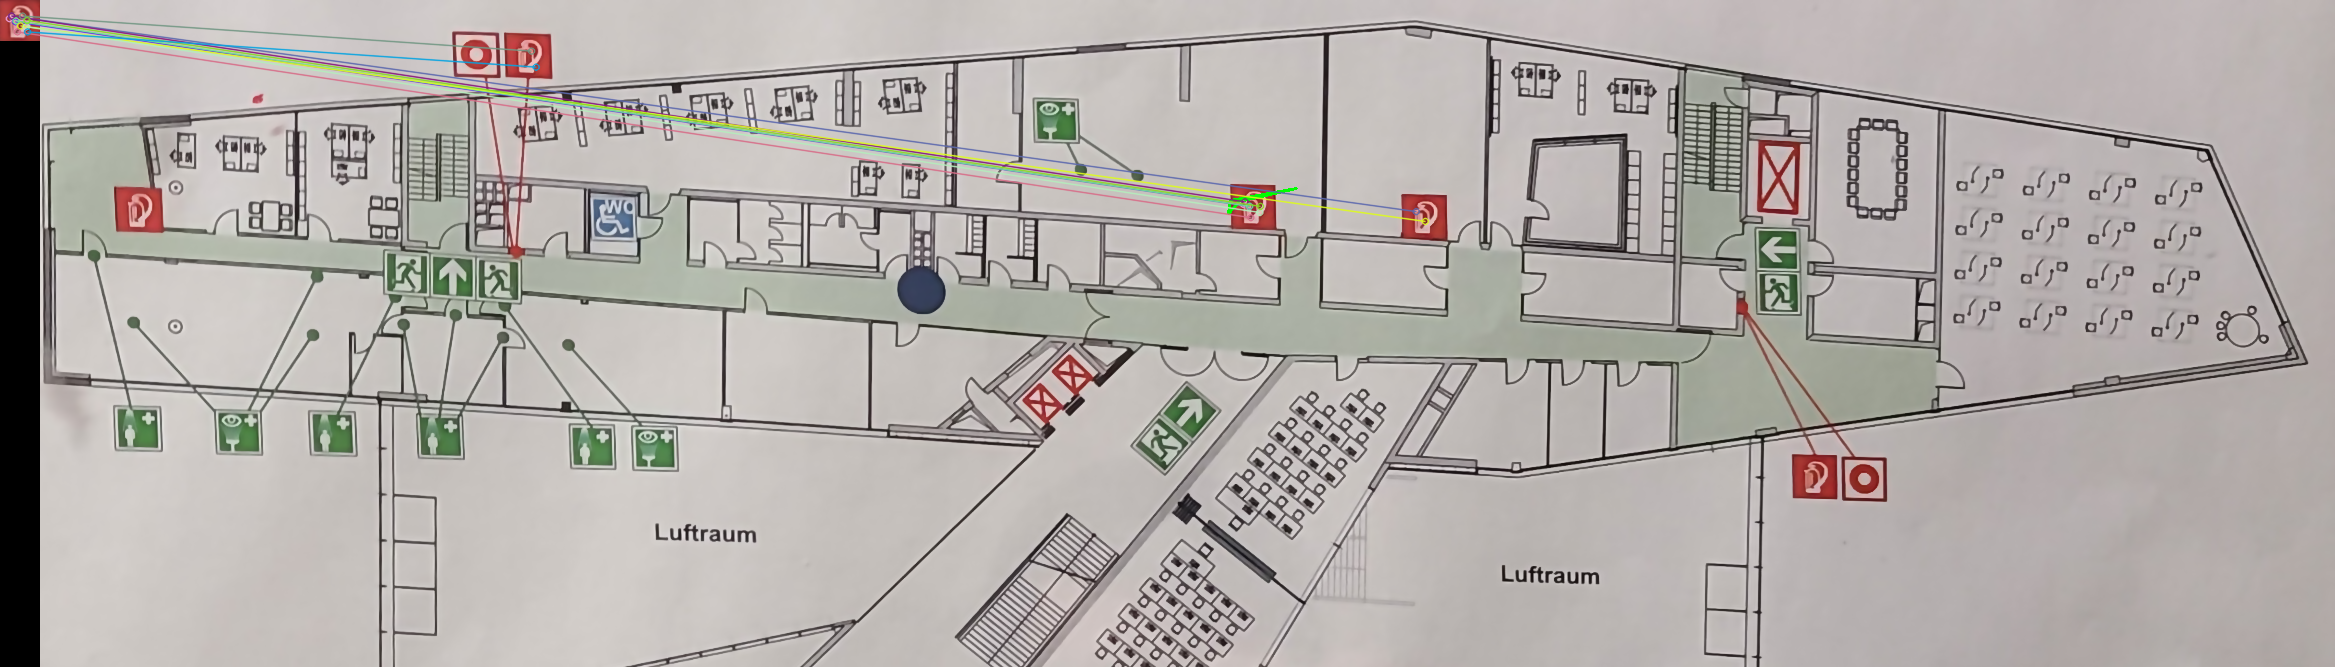
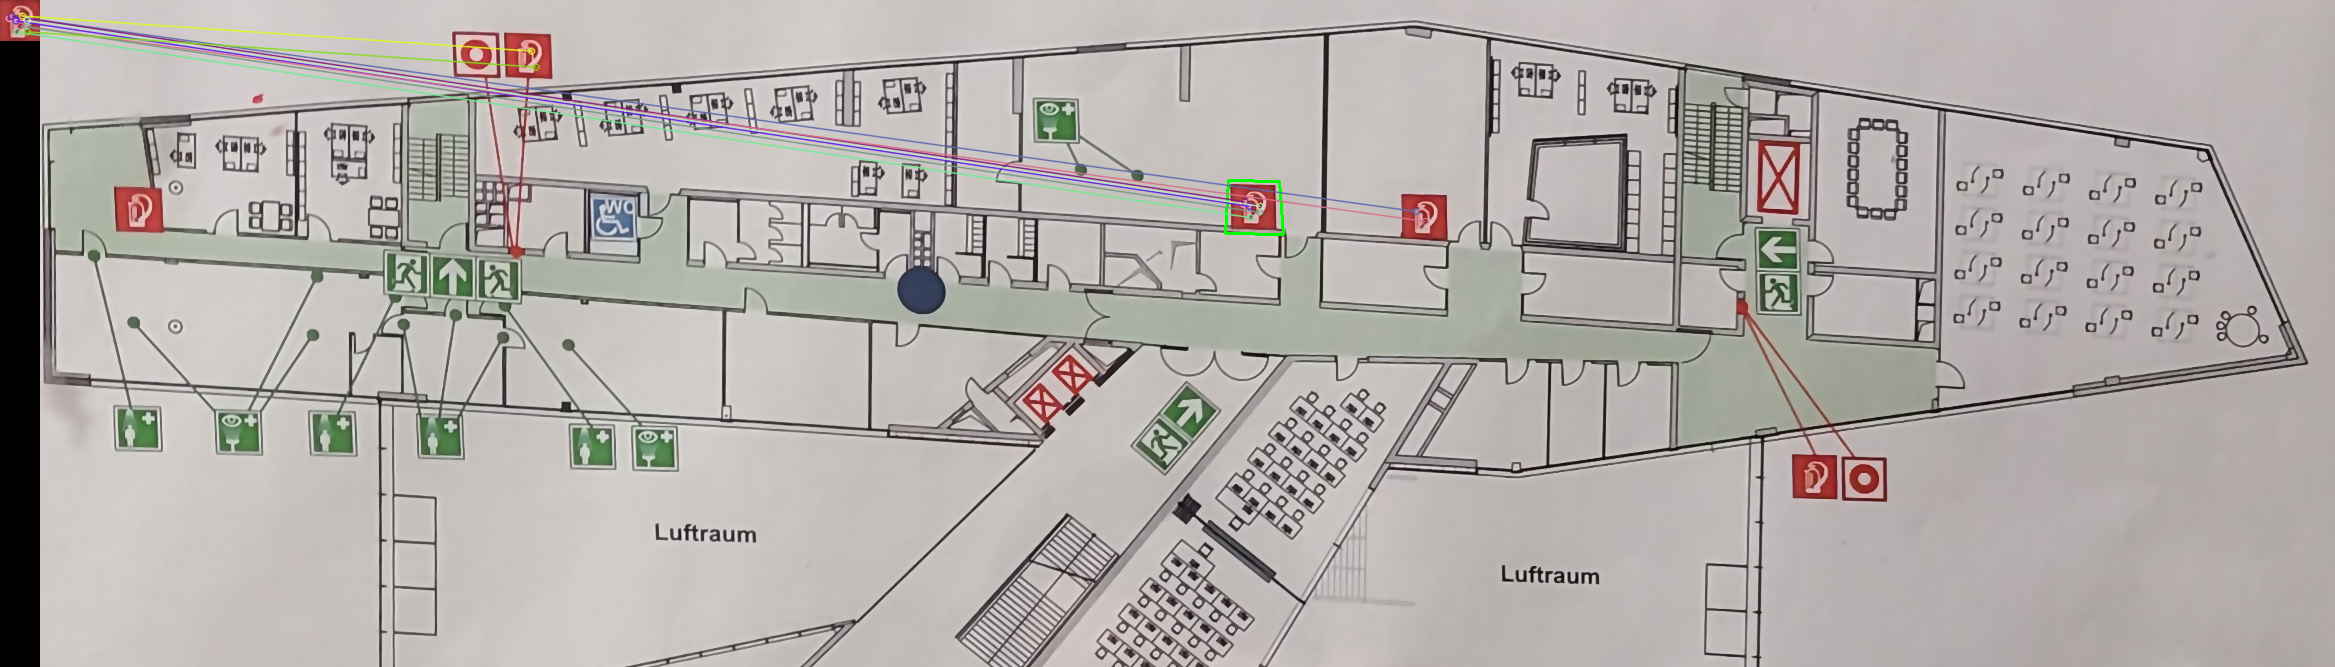
transformation

Changed region(s): [[0.0, 0.0, 0.5859, 0.3598]]

diff --git a/module_test/05_12_SIFT_test.py b/module_test/05_12_SIFT_test.py
@@ -21,7 +21,7 @@ def match_feature_find_object(template_img, background_img, min_matches):
     filtered_matched_lists = []
     matches = [match for match in matches if len(match) == 2]
     for m, n in matches:
-        if m.distance < 0.75 * n.distance:
+        if m.distance < 0.85 * n.distance:
             matches_list.append([m])
             filtered_matched_lists.append(m)
 
@@ -34,34 +34,30 @@ def match_feature_find_object(template_img, background_img, min_matches):
         # distance from template -> eps
         dbscan = DBSCAN(eps=template_w, min_samples=min_matches)  # Adjust eps and min_samples as needed
         labels = dbscan.fit_predict(keypoints)
-
         unique_labels = np.unique(labels)
+
         for label in unique_labels:
-            cluster_points = keypoints[labels == label]
+            # Draw a polygon around the recognized object
+            # pixel coordinates of the keypoints from the que
+            # src_pts = np.float32([features1[m.queryIdx].pt for m in filtered_matched_lists]).reshape(-1, 1, 2)
+            src_pts = np.float32([features1[m.queryIdx].pt for m, lbl in zip(filtered_matched_lists, labels) if lbl == label]).reshape(-1, 1, 2)
 
-            # Calculate the bounding rectangle for the cluster
-            x, y, w, h = cv2.boundingRect(cluster_points)
+            cluster_points = keypoints[labels == label].reshape(-1, 1, 2)
             
-            x -= template_w // 2
-            y -= template_h // 2
-            w += template_w
-            h += template_h
+            # Skip clusters with fewer than 4 points
+            if len(src_pts) < 4 or len(cluster_points) < 4:
+                continue
 
-            # Apply scale and rotation based on template and background feature points
-            template_center = (template_w // 2, template_h // 2)
-            background_center = (x + w // 2, y + h // 2)
-            scale_factor = np.sqrt((template_w * template_w + template_h * template_h) / (w * w + h * h))
-            rotation_angle = np.arctan2(template_center[1] - background_center[1], template_center[0] - background_center[0])
+            # Get the transformation matrix
+            M, _ = cv2.findHomography(src_pts, cluster_points, cv2.RANSAC, 5.0)
 
-            # Rotate the rectangle
-            M = cv2.getRotationMatrix2D(background_center, np.degrees(rotation_angle), scale_factor)
-            rect_points = np.array([[x, y], [x + w, y], [x + w, y + h], [x, y + h]], dtype=np.float32)
-            rect_points = np.hstack((rect_points, np.ones((4, 1))))
-            rect_points = np.dot(M, rect_points.T).T[:, :2].astype(np.int32)
+            # Apply perspectiveTransform()
+            pts = np.float32([[-7, -7], [-7, template_h + 7], [template_w + 7, template_h + 7], [template_w + 7, -7]]).reshape(-1, 1, 2)
+            dst_pts = cv2.perspectiveTransform(pts, M)
 
             # Draw a rectangle around the cluster in the background image
-            background_img = cv2.polylines(background_img, [rect_points], isClosed=True, color=(0, 255, 0), thickness=2)
-            # background_img = cv2.fillPoly(background_img, [rect_points], color=(255, 255, 255))
+            background_img = cv2.polylines(background_img, [dst_pts.astype(np.int32)], isClosed=True, color=(0, 255, 0), thickness=2)
+            # background_img = cv2.fillPoly(background_img, [dst_pts.astype(np.int32)], color=(255, 255, 255))
         
     else:
         print('Not enough good matches are found - {}/{}'.format(len(filtered_matched_lists), 0))
@@ -71,10 +67,10 @@ def match_feature_find_object(template_img, background_img, min_matches):
     cv2.imwrite(file_name + "_generated.png", background_img)
 
 
-file_name = "module_test\\result\\20220112_162232_rect_crop_bilateral_crop"
+file_name = "module_test\\result\\IMG_20191015_181243_rect_crop_bilateral"
 image_name = file_name + ".png"
 
 backgroundImage = cv2.imread(image_name)
-templateImage = cv2.imread(file_name + '_template2.png')
+templateImage = cv2.imread(file_name + '_template1.png')
 
 match_feature_find_object(templateImage, backgroundImage, 2)

diff --git a/module_test/05_13_SIFT_box_text.py b/module_test/05_13_SIFT_box_text.py
@@ -2,8 +2,11 @@ import numpy as np
 import cv2 as cv
 import matplotlib.pyplot as plt
 
-img1 = cv.imread('module_test\\result\\nZBK5_template1.png',cv.IMREAD_GRAYSCALE)          # queryImage
-img2 = cv.imread('module_test\\result\\nZBK5.png',cv.IMREAD_GRAYSCALE) # trainImage
+file_name = "module_test\\result\\IMG_20191015_181243_rect_crop_bilateral"
+image_name = file_name + ".png"
+
+img1 = cv.imread(file_name + '_template1.png',cv.IMREAD_GRAYSCALE)
+img2 = cv.imread(image_name,cv.IMREAD_GRAYSCALE)
 
 # Initiate SIFT detector
 sift = cv.SIFT_create()
@@ -28,4 +31,5 @@ draw_params = dict(matchColor = (0,255,0),
                    flags = cv.DrawMatchesFlags_DEFAULT)
 img3 = cv.drawMatchesKnn(img1,kp1,img2,kp2,matches,None,**draw_params)
 
-cv.imwrite("module_test\\result\\nZBK5_test.png", img3)
+cv.imwrite(file_name + "_test.png", img3)
+

diff --git a/module_test/02_image_filter.py b/module_test/02_image_filter.py
@@ -1,7 +1,7 @@
 import cv2
 import numpy as np
 
-file_name = "module_test\\result\\20230530_135543_rect_crop"
+file_name = "module_test\\result\\IMG_20191015_181243_rect_crop"
 image_name = file_name + ".png"
 
 img = cv2.imread(image_name)
@@ -35,7 +35,7 @@ l_channel, a, b = cv2.split(lab)
 
 # Applying CLAHE to L-channel
 # feel free to try different values for the limit and grid size:
-clahe = cv2.createCLAHE(clipLimit=1, tileGridSize=(100,100))
+clahe = cv2.createCLAHE(clipLimit=1, tileGridSize=(75,75))
 cl = clahe.apply(l_channel)
 
 # merge the CLAHE enhanced L-channel with the a and b channel

diff --git a/module_test/05_11_feature_matching_test.py b/module_test/05_11_feature_matching_test.py
@@ -57,7 +57,7 @@ def match_feature_find_object(template_img, background_img, min_matches):
     cv2.imwrite(file_name + "_generated.png", background_img)
     
 
-file_name = "module_test\\result\\IMG_3751_rect_crop_bilateral_crop"
+file_name = "module_test\\result\\20230530_135543_rect_crop_bilateral_crop"
 image_name = file_name + ".png"
 
 backgroundImage = cv2.imread(image_name)

diff --git a/module_test/01_rectification_test.py b/module_test/01_rectification_test.py
@@ -534,7 +534,7 @@ if __name__ == '__main__':
     # print("Rectifying {}".format(image_name))
     # save_name = '.'.join(image_name.split('.')[:-1]) + '_warped.png'
     
-    file_name = "module_test\\result\\20230530_135543"
+    file_name = "module_test\\result\\IMG_20191015_181243"
     image_name = file_name + ".jpg"
     save_name_rectification = file_name + '_rect.png'
 
